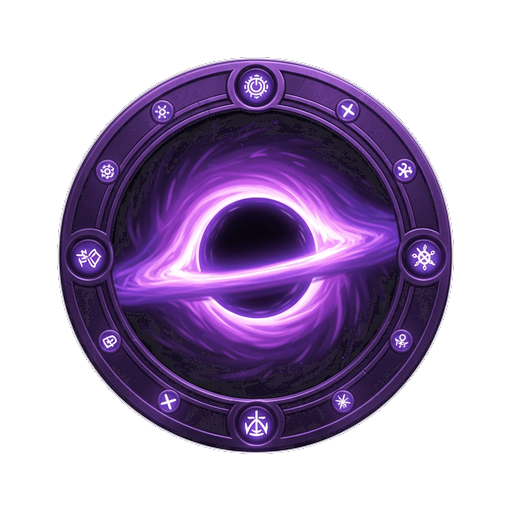
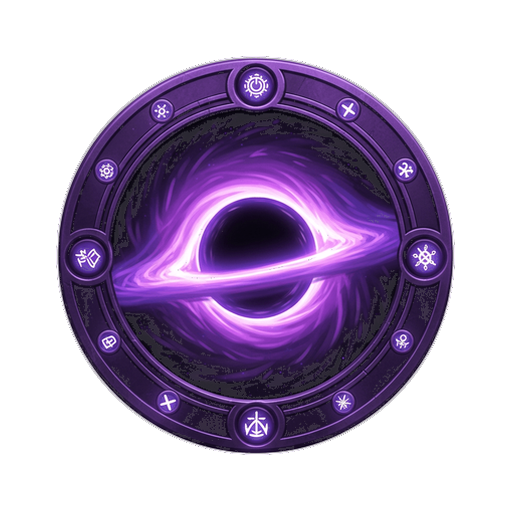
Add gem normalization as automatic pre-step in typecheck workflow
Task: #485 — Wire normalize:gems into the CI typecheck workflow

## What changed

### package.json (root)
- Added `"normalize:gems"` script: `pnpm --filter @workspace/scripts run normalize:gems`
- Prefixed the existing `"typecheck"` script with `pnpm run normalize:gems &&` so the
  normalization step runs automatically before any TypeScript checks.
  New sequence: normalize:gems → typecheck:libs → per-artifact typechecks.

### replit.md
- Added a "Developer Workflow" section documenting the gem token normalization behavior:
  explains that `pnpm run typecheck` auto-normalizes all six affinity gem PNGs, which
  files are affected, and how to invoke the step in isolation.

## Implementation notes
- The normalize:gems script (`scripts/src/normalize-gem-tokens.py`) is idempotent:
  running it on already-normalized 512×512 PNGs produces no meaningful change.
- No new packages or pre-commit hooks were added — the typecheck pipeline is the
  single trigger, keeping the setup simple and zero-dependency for contributors.
- Verified: `pnpm run normalize:gems` succeeds and processes all 6 gem PNGs correctly.

Replit-Task-Id: d2d66da8-dc2c-4d6c-bf74-4a45f585e93d

Changed region(s): [[0.0938, 0.0938, 0.9062, 0.9062]]

diff --git a/replit.md b/replit.md
@@ -139,6 +139,11 @@ If a generation pass produces a humanoid figure for a Luminary that should be no
 -   **Lobby State Sync:** Critical reconciliation of lobby player data from TanStack Query and WebSocket events, ensuring `isHost` status is accurately reflected.
 -   **Error Handling:** React `ErrorBoundary` for UI crashes, API server `EADDRINUSE` retry logic, and `strictPort` for Vite.
 
+## Developer Workflow
+
+### Gem Token Normalization
+All six affinity gem token PNGs are automatically normalized to a consistent 512×512 canvas whenever `pnpm run typecheck` is run. The normalization step (`pnpm run normalize:gems`) runs first, before any TypeScript checks, via `scripts/src/normalize-gem-tokens.py`. If you add or regenerate gem art in `attached_assets/`, simply run `pnpm run typecheck` (or the dedicated `pnpm run normalize:gems`) and the files will be cropped, scaled to 78% fill, and centered in-place.
+
 ## External Dependencies
 
 -   **Database:** PostgreSQL with Drizzle ORM for schema definition and interaction.
